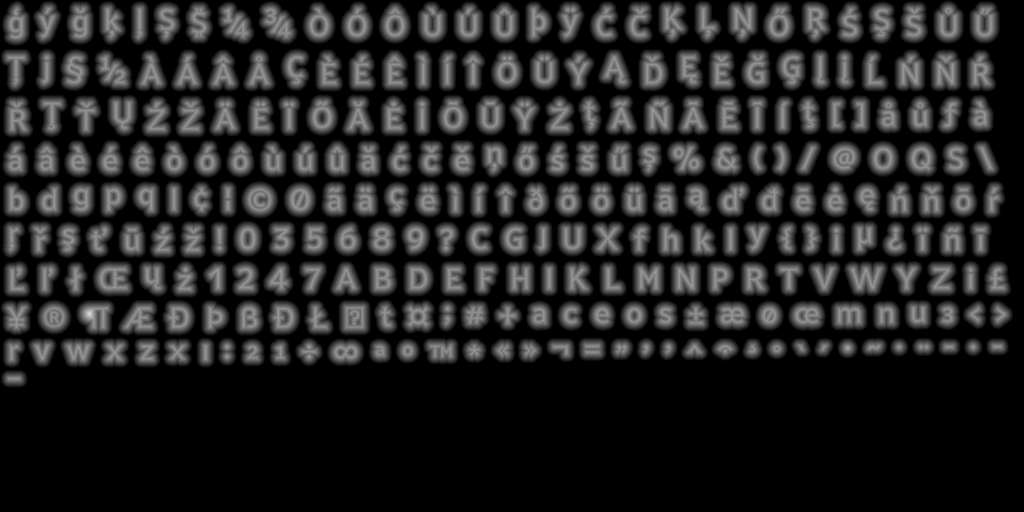
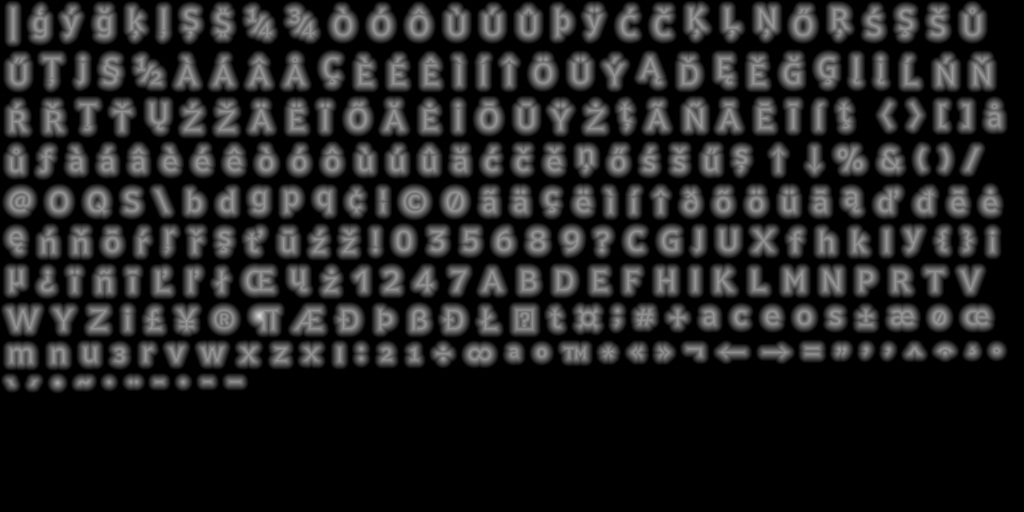
Add better angle brackets and pipe to default font

diff --git a/src/client/glov/ui_test.js b/src/client/glov/ui_test.js
@@ -164,7 +164,7 @@ export function runFontTest(x, y) {
   let font_size = glov_ui.font_height * 2;
   font.drawSized(null, x, y, z, font_size, `Default ${font_size} ${random().toFixed(7)}`);
   y += font_size;
-  font.drawSized(null, x, y, z, font_size / 2, `Default ${font_size / 2} Lorem ipsum dolor sit amet`);
+  font.drawSized(null, x, y, z, font_size / 2, `Default ${font_size / 2} Lorem ipsum dolor sit amet <[A|B]>`);
   y += ceil(font_size / 2);
   font.drawSized(null, x, y, z, font_size / 4,
     `Default ${font_size / 4} The quick brown fox jumped over the lazy dog rutabaga Alfalfa`);
